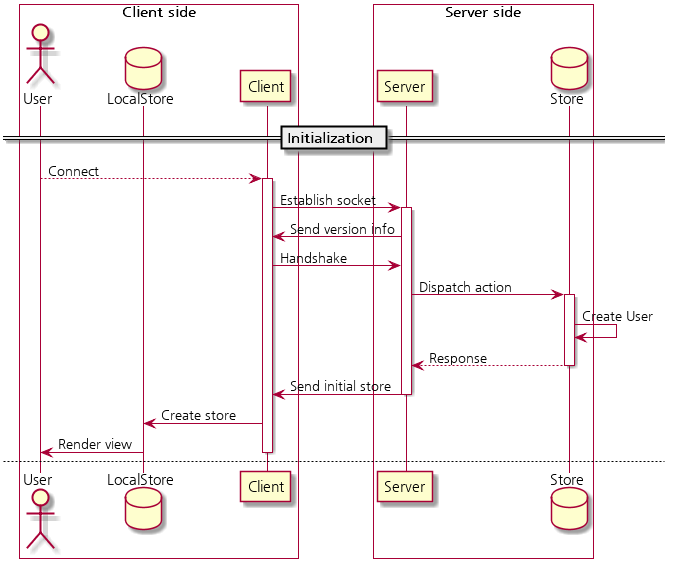
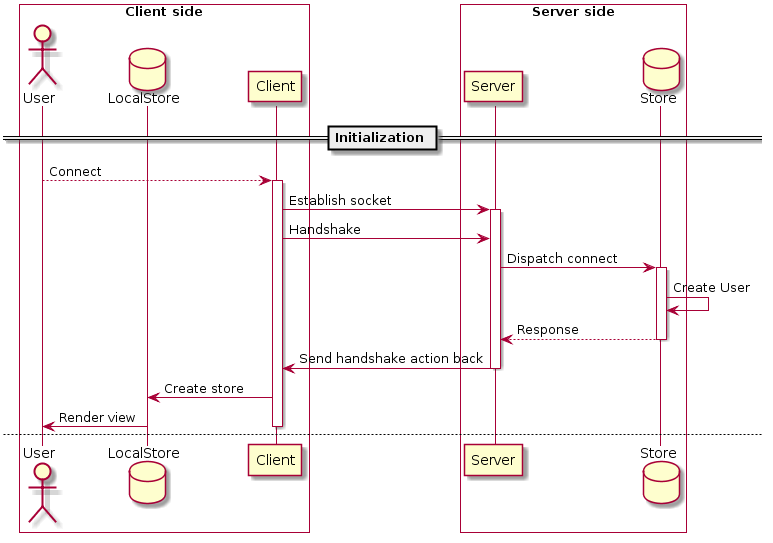
Finish communication documentation

Changed region(s): [[0.0, 0.0, 0.9956, 1.0], [0.56, 0.0, 0.9022, 0.0295], [0.56, 0.9724, 0.8711, 1.0]]

diff --git a/doc/communication.md b/doc/communication.md
@@ -11,7 +11,7 @@ This means that Redux is required to implement this model. However, since
 Redux is so 'simple', there should be no problem implementing this model on
 other languages.
 
-# Action
+# Action Structure
 
 Actions should follow FSA(Flux standard action) standard. You can do anything
 with the actions as long as it follows FSA standard.
@@ -40,12 +40,159 @@ The behavior of communication class is described in [here](action.md).
 - `read`. Used to fetch information from the remote.
 - `write`. Used to actually run a action to the remote.
 
-### user
+Server should send an error back if specified `class` is not supported on the
+specified action type and ignore the action.
+
+### connection
 
 Describes who sent the action (or who belongs to the action). This should be
-`null` if server sent the action. Servers should set the user to who actually
-sent the action. Clients should not override them, since server sets the
+`null` if server sent the action. Servers should set the connection to who
+actually sent the action. Clients should not override them, since server sets the
 'author' of the action.
 
-`user` can be any object, but it is recommended to use identifier such as
+`connection` can be any object, but it is recommended to use identifier such as
 Number or String, since it's easily distinguishable and processable.
+
+# Actions
+
+Some actions are mandatory to implement this communication model. This list
+lists these required actions.
+
+- connection/handshake
+- connection/update
+- connection/connect
+- connection/disconnect
+
+## connection/handshake
+
+Handshake is specially treated by both client and server.
+
+1. Client sends handshake action along with the connection data.
+2. Server creates and dispatches connect action to its store.
+3. Server sends handshake action with the initial store and connection data.
+4. Server sends connect action to other users.
+
+### Supported class
+
+- write
+
+### Client -> Server
+
+```js
+  {
+    connection: {
+      name: 'Guest'
+      version: '1.0.25'
+      // Any additional information can come here
+    }
+    // Any additional information can come here
+  }
+```
+
+### Server -> Client
+
+#### If handshake was successful
+
+```js
+  {
+    connection: {
+      id: 4,
+      name: 'Guest',
+      version: '1.0.25'
+    },
+    // Any initial store information can come here
+  }
+```
+
+#### If handshake has failed
+
+```js
+  {
+    code: 403,
+    reason: 'Already connected to the socket server.'
+  }
+```
+
+Server should immediately disconnect the connection after sending response.
+
+## connection/update
+
+Update action updates the target connection. `read` is used to fetch user data
+from the server, and `write` is used to update user itself.
+
+Server should throw error if `write` action is trying to edit disallowed data.
+
+### Supported class
+
+- read
+- write
+
+### Client -> Server
+
+#### read
+
+```js
+  {
+    id: 31
+  }
+```
+
+#### write
+
+```js
+  {
+    name: 'Anonymous'
+    // Any data can come here
+  }
+```
+
+### Server -> Client
+
+#### successful
+
+```js
+  {
+    id: 31,
+    name: 'Anonymous'
+    // Any data can come here
+  }
+```
+
+#### failed
+
+```js
+  {
+    code: 403,
+    reason: 'Tried to edit disallowed data'
+  }
+```
+
+## connection/connect
+
+Adds the connection to the store. Client shouldn't send this action to the
+server. Server should filter them out.
+
+### Server -> Client
+
+```js
+  {
+    id: 31,
+    name: 'Anonymous'
+    // Any data can come here
+  }
+```
+
+## connection/disconnect
+
+Removes the connection from the store. Client shouldn't send this action to the
+server. Server should filter them out.
+
+### Server -> Client
+
+```js
+  {
+    id: 31,
+    name: 'Anonymous'
+    // Any data can come here
+  }
+```
